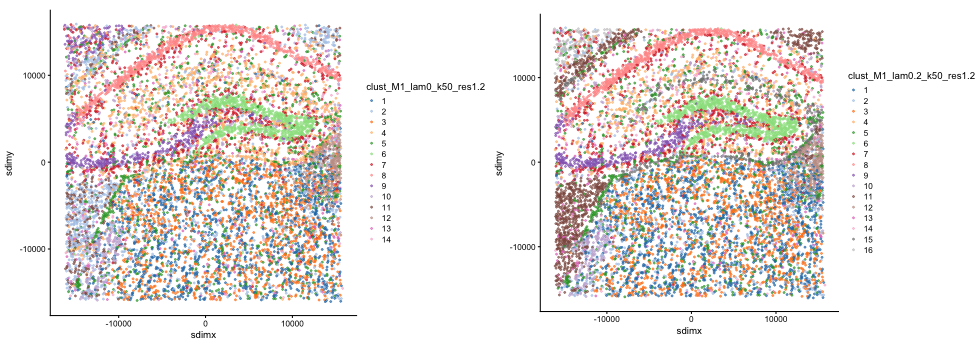
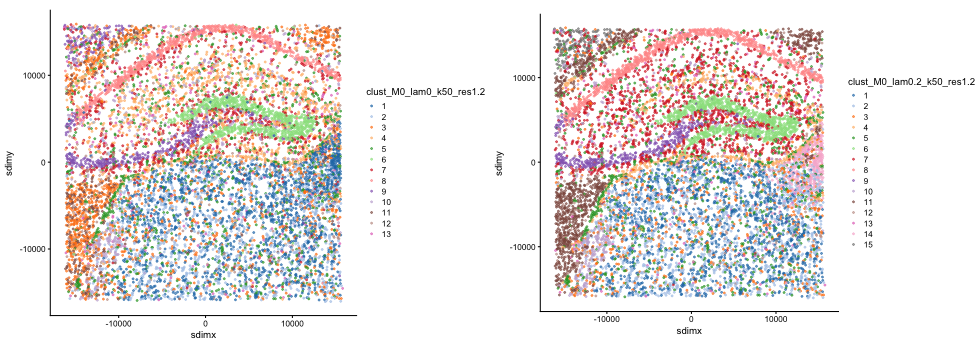
bump to 1.9.2, update imports, README and pkgdown nav

diff --git a/README.md b/README.md
@@ -36,11 +36,13 @@ datasets. For more details, check out:
   [here](https://github.com/prabhakarlab/Banksy_py/tree/Banksy_manuscript)
   for analyses done in Python).
 
-**For scaling BANKSY to large datasets, we recommend using BANKSY with
-SeuratWrappers. See [this
-vignette](https://github.com/jleechung/seurat-wrappers/blob/feat-sparse-matmul/docs/banksy.md#scaling-to-large-datasets)
-for a memory-efficient workflow that computes PCA directly via a sparse
-linear operator, avoiding materialization of the full BANKSY matrix.**
+**BANKSY now includes a lazy PCA mode (`lazy=TRUE` in `runBanksyPCA`)
+that computes PCA directly via an implicit linear operator without
+materializing the full BANKSY matrix. This is the default and
+recommended mode, scaling to millions of cells with low memory usage.
+For analysis on large datasets (\> 1 million samples), we recommend
+using BANKSY via SeuratWrappers: see [this
+vignette](https://github.com/jleechung/seurat-wrappers/blob/feat-sparse-matmul/docs/banksy.md#scaling-to-large-datasets).**
 
 ## Installation
 
@@ -120,23 +122,25 @@ aname <- "normcounts"
 assay(se, aname) <- normalizeCounts(se, log = FALSE)
 ```
 
-Compute the neighborhood matrices for *BANKSY*. Setting
-`compute_agf=TRUE` computes both the weighted neighborhood mean
-($\mathcal{M}$) and the azimuthal Gabor filter ($\mathcal{G}$). The
-number of spatial neighbors used to compute $\mathcal{M}$ and
-$\mathcal{G}$ are `k_geom[1]=15` and `k_geom[2]=30` respectively. We run
-*BANKSY* at `lambda=0` corresponding to non-spatial clustering, and
-`lambda=0.2` corresponding to *BANKSY* for cell-typing.
+Run `runBanksyPCA` to compute BANKSY PCA embeddings. By default, this
+uses a lazy linear operator that computes PCA without materializing the
+full BANKSY matrix — computing the kNN graph and applying the BANKSY
+transform on the fly during the iterative PCA solver. This is
+memory-efficient and scales to millions of cells.
+
+We run *BANKSY* at `lambda=0` corresponding to non-spatial clustering,
+and `lambda=0.2` corresponding to *BANKSY* for cell-typing. The number
+of spatial neighbors is set by `k_geom`.
 
 > **An important note about choosing the `lambda` parameter for the
 > older [Visium v1 / v2 55um
 > datasets](https://doi.org/10.1038/s41593-020-00787-0) or the original
 > [ST 100um technology](https://doi.org/10.1038/s41596-018-0045-2):**
 >
-> For most modern high resolution technologies like Xenium, Visium HD,
-> StereoSeq, MERFISH, STARmap PLUS, SeqFISH+, SlideSeq v2, and CosMx
-> (and others), we recommend the usual defults for `lambda`: For cell
-> typing, use `lambda = 0.2` (as shown below, or in [this
+> **Modern high resolution technologies** (Xenium, Visium HD, StereoSeq,
+> MERFISH, STARmap PLUS, SeqFISH+, SlideSeq v2, and CosMx, and others):
+> we recommend the usual defaults for `lambda`. For cell typing, use
+> `lambda = 0.2` (as shown below, or in [this
 > vignette](https://prabhakarlab.github.io/Banksy/articles/parameter-selection.html))
 > and for [domain
 > segmentation](https://prabhakarlab.github.io/Banksy/articles/domain-segment.html),
@@ -148,14 +152,13 @@ $\mathcal{G}$ are `k_geom[1]=15` and `k_geom[2]=30` respectively. We run
 > We find that the usual defaults work well at this measurement
 > resolution.
 >
-> However, for the older **Visium v1/v2** or **ST** technologies, with
-> their much lower resolution spots (55um and 100um diameter,
-> respectively), we find that `lambda = 0.2` seems to work best for
-> domain segmentation. This could be because each spot already measures
-> the average transcriptome of several cells in a neighbourhood. It
-> seems that `lambda = 0.2` shares enough information between these
-> neighbourhoods to lead to good domain segmentation performance. For
-> example, in the [human DLPFC
+> **Older Visium v1/v2 or ST technologies** (with their much lower
+> resolution spots, 55um and 100um diameter, respectively): we find that
+> `lambda = 0.2` seems to work best for domain segmentation. This could
+> be because each spot already measures the average transcriptome of
+> several cells in a neighbourhood. It seems that `lambda = 0.2` shares
+> enough information between these neighbourhoods to lead to good domain
+> segmentation performance. For example, in the [human DLPFC
 > vignette](https://prabhakarlab.github.io/Banksy/articles/multi-sample.html),
 > we use `lambda = 0.2` on a Visium v1/v2 dataset. Also note that in
 > these lower resolution technologies, each spot can have multiple cells
@@ -163,33 +166,48 @@ $\mathcal{G}$ are `k_geom[1]=15` and `k_geom[2]=30` respectively. We run
 
 ``` r
 lambda <- c(0, 0.2)
-k_geom <- c(15, 30)
 
-se <- Banksy::computeBanksy(se, assay_name = aname, compute_agf = TRUE, k_geom = k_geom)
+se <- Banksy::runBanksyPCA(se, assay_name = aname, lambda = lambda, k_geom = 15)
 #> Computing neighbors...
 #> Spatial mode is kNN_median
 #> Parameters: k_geom=15
 #> Done
-#> Computing neighbors...
-#> Spatial mode is kNN_median
-#> Parameters: k_geom=30
-#> Done
-#> Computing harmonic m = 0 with 15 neighbors
-#> Done
-#> Computing harmonic m = 1 with 30 neighbors
-#> Centering
-#> Done
+#> --- lambda = 0 ---
+#> Building sparse weight matrix
+#> Computing scaling parameters for own expression
+#> Computing clipping excess for own expression
+#> Computing scaling params and clipping for H0
+#> H0 genes requiring clipping: 0 / 120
+#> Clipping corrections: own=0 H0=0 entries
+#> Computing BANKSY PCA (20 PCs) via C++ irlba (work=27)
+#>   iter=1  mprod=54  sv[20]=7.9454e+01  t=0s
+#>   iter=2  mprod=68  sv[20]=9.5131e+01  t=0s
+#>   iter=5  mprod=110  sv[20]=1.0435e+02  t=1s
+#>   iter=10  mprod=180  sv[20]=1.0568e+02  t=1s
+#>   iter=11  mprod=194  sv[20]=1.0568e+02  t=1s
+#>   Converged: iter=11, mprod=194
+#> --- lambda = 0.2 ---
+#> Building sparse weight matrix
+#> Computing scaling parameters for own expression
+#> Computing clipping excess for own expression
+#> Computing scaling params and clipping for H0
+#> H0 genes requiring clipping: 0 / 120
+#> Clipping corrections: own=0 H0=0 entries
+#> Computing BANKSY PCA (20 PCs) via C++ irlba (work=27)
+#>   iter=1  mprod=54  sv[20]=6.2079e+01  t=0s
+#>   iter=2  mprod=68  sv[20]=8.2518e+01  t=0s
+#>   iter=5  mprod=110  sv[20]=9.5141e+01  t=1s
+#>   iter=9  mprod=166  sv[20]=9.6004e+01  t=1s
+#>   Converged: iter=9, mprod=166
+#> Done.
 ```
 
-Next, run PCA on the BANKSY matrix and perform clustering. Setting
-`use_agf=TRUE` uses both $\mathcal{M}$ and $\mathcal{G}$ to construct
-the BANKSY matrix.
+Next, compute UMAP and perform clustering:
 
 ``` r
 set.seed(1000)
-se <- Banksy::runBanksyPCA(se, use_agf = TRUE, lambda = lambda)
-se <- Banksy::runBanksyUMAP(se, use_agf = TRUE, lambda = lambda)
-se <- Banksy::clusterBanksy(se, use_agf = TRUE, lambda = lambda, resolution = 1.2)
+se <- Banksy::runBanksyUMAP(se, use_agf = FALSE, lambda = lambda)
+se <- Banksy::clusterBanksy(se, use_agf = FALSE, lambda = lambda, resolution = 1.2)
 ```
 
 Different clustering runs can be relabeled to minimise their differences
@@ -197,7 +215,7 @@ with `connectClusters`:
 
 ``` r
 se <- Banksy::connectClusters(se)
-#> clust_M1_lam0.2_k50_res1.2 --> clust_M1_lam0_k50_res1.2
+#> clust_M0_lam0.2_k50_res1.2 --> clust_M0_lam0_k50_res1.2
 ```
 
 Visualise the clustering output for non-spatial clustering (`lambda=0`)
@@ -262,7 +280,7 @@ plot_grid(
 Runtime for analysis
 </summary>
 
-    #> Time difference of 36.87376 secs
+    #> Time difference of 35.0907 secs
 
 </details>
 <details>
@@ -299,7 +317,7 @@ sessionInfo()
 #> [11] IRanges_2.43.0              S4Vectors_0.47.0           
 #> [13] BiocGenerics_0.55.0         generics_0.1.4             
 #> [15] MatrixGenerics_1.21.0       matrixStats_1.5.0          
-#> [17] Banksy_1.9.1               
+#> [17] Banksy_1.9.2               
 #> 
 #> loaded via a namespace (and not attached):
 #>  [1] beeswarm_0.4.0      gtable_0.3.6        rjson_0.2.23       

diff --git a/NEWS.md b/NEWS.md
@@ -1,4 +1,11 @@
 
+# Version 1.9.2
+
++ Lazy PCA mode in runBanksyPCA (lazy=TRUE, now the default) computes PCA via an implicit linear operator without materializing the full BANKSY matrix, scaling to millions of cells with low memory usage
++ C++ backend (pca_backend="cpp", default) implements irlba with OpenMP-parallelized sparse matrix-vector products and column-wise H0 scaling that computes neighborhood statistics without materializing the gene-by-cell product matrix
++ The lazy path supports multi-sample analysis with per-group kNN, within-group scaling, optional parallel kNN via mclapply, and multiple lambda values in a single call with kNN computed once and reused. 
++ At 96% sparsity and 5k features with average group size ~400k, expected runtime / peak mem for runBanksyPCA is 1.9 min / 27 GB at 1M cells, 2.8 min / 39 GB at 2M, 8.2 min / 84 GB at 5M, and 13.0 min / 163 GB at 10M cells, scaling approximately linearly in both runtime and memory.
+
 # Version 0.99.8
 
 + Add feature scaling options for PCA and UMAP
